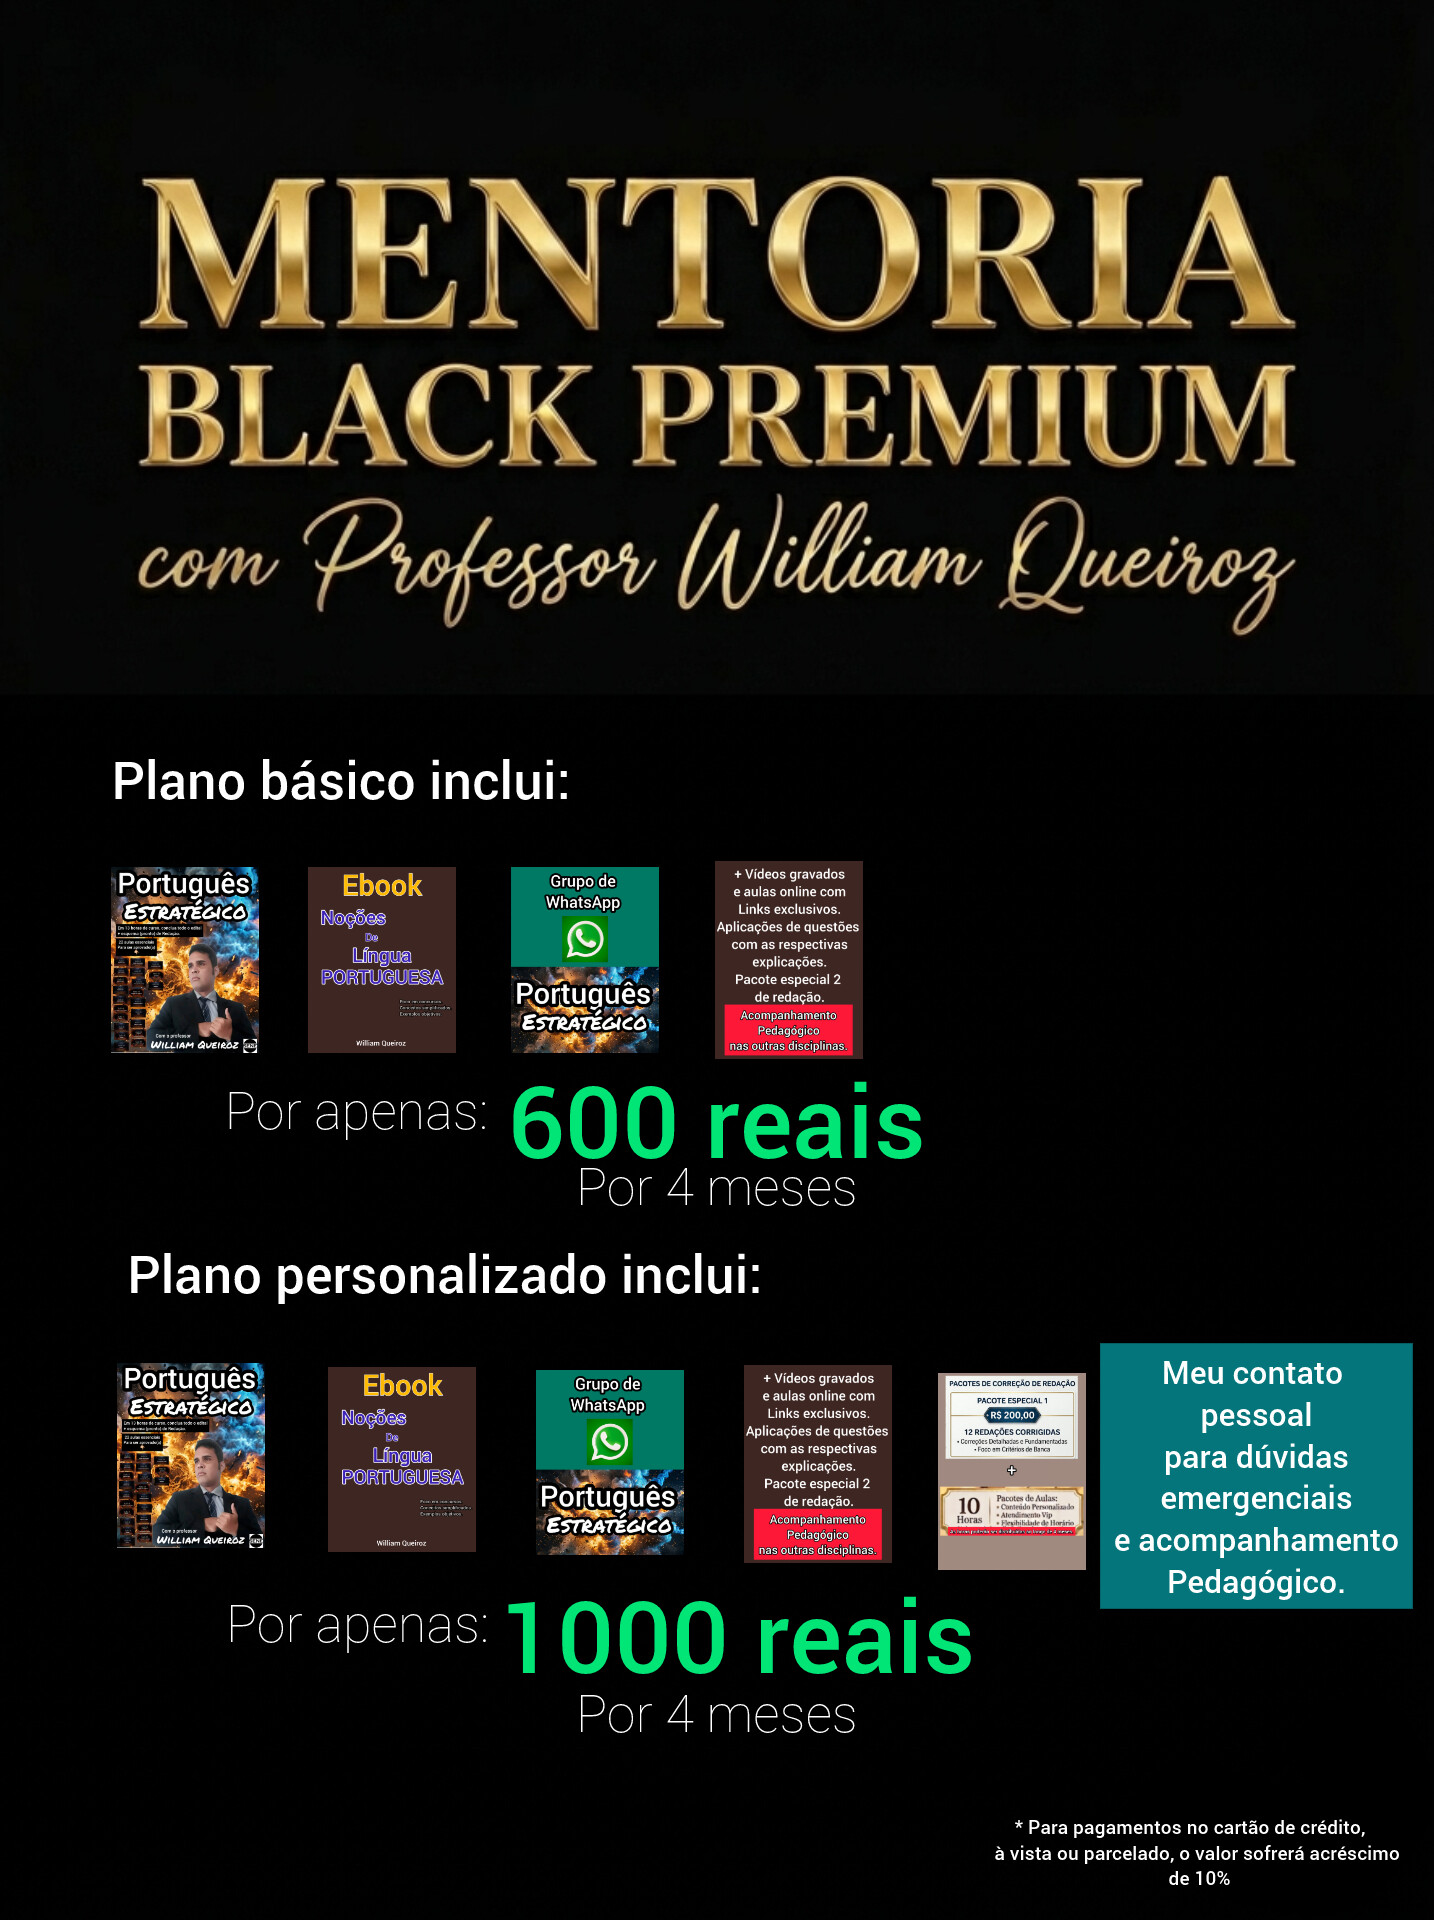
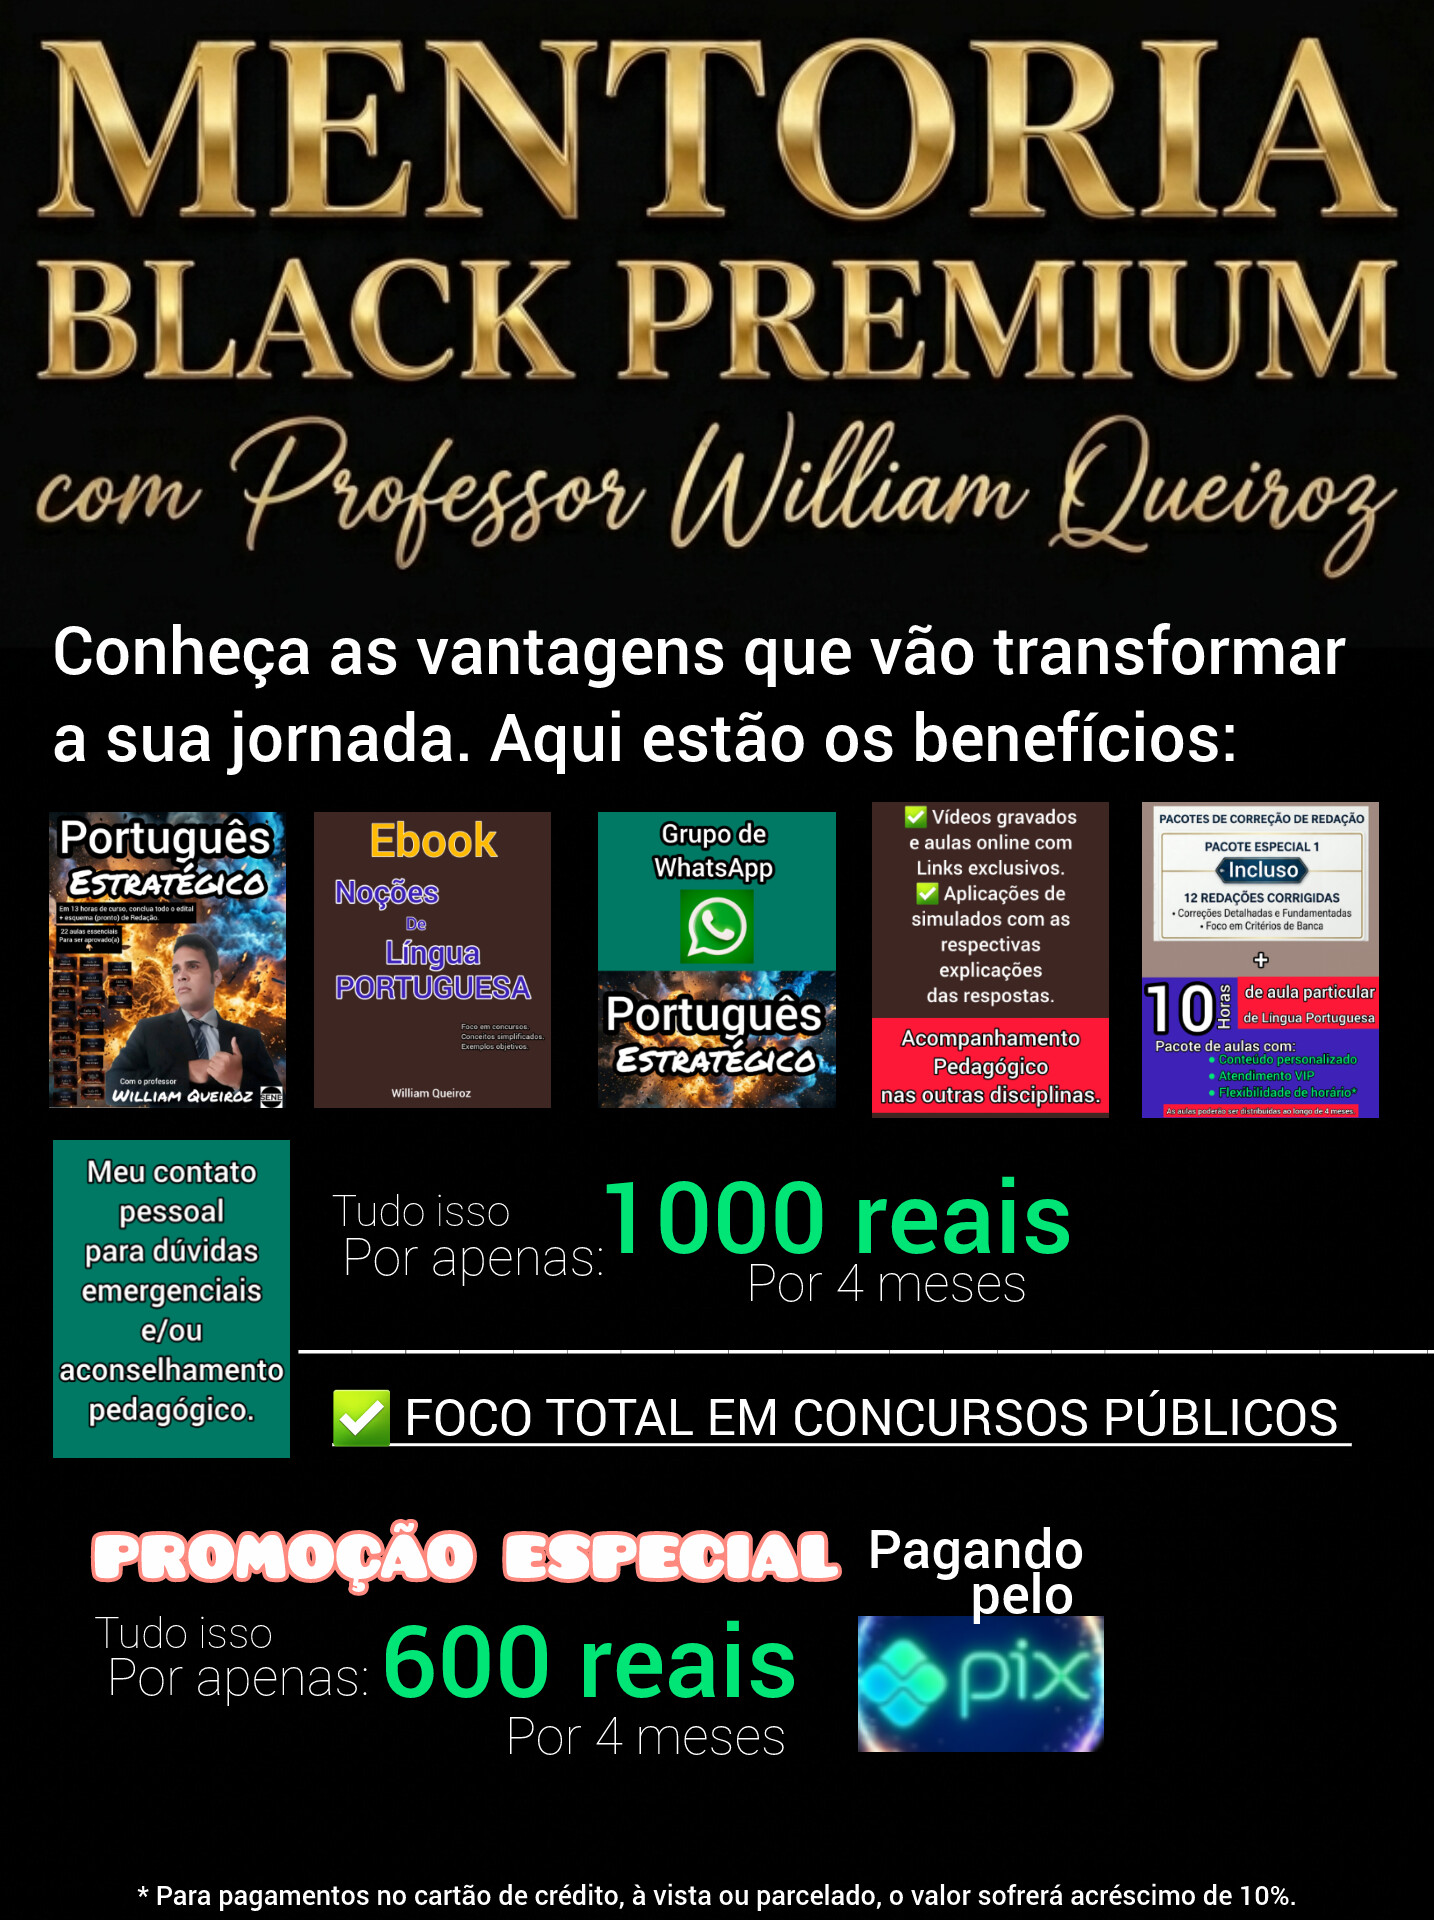
Add files via upload

diff --git a/index.html b/index.html
@@ -101,6 +101,11 @@
             margin-top: 2px;
         }
 
+        .menu-navegacao {
+            display: flex;
+            align-items: center;
+        }
+
         .menu-navegacao a {
             text-decoration: none;
             color: var(--texto-titulo);
@@ -112,6 +117,62 @@
 
         .menu-navegacao a:hover {
             color: var(--marca-ciano);
+        }
+
+        /* --- NOVA BARRA DE PESQUISA ESTILIZADA --- */
+        .container-busca-topo {
+            display: flex;
+            align-items: center;
+            position: relative;
+            margin-left: 8px;
+            border-left: 1px solid #E2E8F0;
+            padding-left: 16px;
+        }
+
+        .input-busca-topo {
+            width: 40px;
+            height: 36px;
+            background-color: var(--superficie-clara);
+            border: 1px solid #E2E8F0;
+            border-radius: 20px;
+            padding: 0 12px 0 35px;
+            font-size: 12px;
+            color: var(--texto-titulo);
+            outline: none;
+            cursor: pointer;
+            transition: width 0.3s ease, border-color 0.3s ease, background-color 0.3s ease;
+        }
+
+        .input-busca-topo:focus,
+        .input-busca-topo:not(:placeholder-shown) {
+            width: 180px;
+            cursor: text;
+            background-color: #ffffff;
+            border-color: var(--marca-ciano);
+        }
+
+        .icone-busca-topo {
+            position: absolute;
+            left: 28px;
+            color: var(--texto-suporte);
+            font-size: 13px;
+            pointer-events: none;
+            transition: color 0.3s ease;
+        }
+
+        .input-busca-topo:focus + .icone-busca-topo {
+            color: var(--marca-ciano-vibrante);
+        }
+
+        /* Efeito de piscar o card encontrado */
+        @keyframes destaqueCard {
+            0% { transform: scale(1); box-shadow: 0 10px 30px rgba(0,0,0,0.02); }
+            50% { transform: scale(1.03); border-color: var(--marca-ciano-vibrante); box-shadow: 0 0 20px rgba(0, 210, 206, 0.4); }
+            100% { transform: scale(1); box-shadow: 0 10px 30px rgba(0,0,0,0.02); }
+        }
+
+        .card-pesquisado-destaque {
+            animation: destaqueCard 1.5s ease-in-out 2;
         }
 
         .botoes-topo-container {
@@ -304,6 +365,7 @@
             color: var(--texto-titulo);
             font-weight: 400;
             flex: 1;
+            text-align: justify;
         }
 
         .btn-acao-vendas {
@@ -469,6 +531,7 @@
             align-items: center;
             border: 1px solid rgba(0,0,0,0.03);
             scroll-margin-top: 170px; 
+            transition: border-color 0.3s ease;
         }
 
         .capa-produto {
@@ -967,7 +1030,7 @@
 
         @media (max-width: 768px) {
             body {
-                padding-top: 240px;
+                padding-top: 260px;
             }
             .secao-principal { flex-direction: column-reverse; text-align: center; padding-top: 40px; }
             .lado-esquerdo { padding-right: 0; }
@@ -975,15 +1038,12 @@
             .molde-foto { width: 280px; height: 280px; margin-bottom: 30px; border-radius: 16px; }
             .card-multimidia, .box-oferta { width: 100%; }
             .alinhamento-topo { flex-direction: column; gap: 12px; text-align: center; }
-            .menu-navegacao { margin: 4px 0; }
+            .menu-navegacao { margin: 4px 0; justify-content: center; flex-wrap: wrap; gap: 8px; }
+            .container-busca-topo { border-left: none; padding-left: 0; margin-left: 0; margin-top: 5px; }
             .botoes-topo-container { width: 100%; max-width: 320px; }
             .chamada-topo { padding: 12px; }
             .container-botoes-captura { justify-content: center; }
-            
-            /* Ajuste responsivo para que os botões fiquem empilhados no celular */
-            .linha-botoes-duplos {
-                grid-template-columns: 1fr;
-            }
+            .linha-botoes-duplos { grid-template-columns: 1fr; }
         }
     </style>
 </head>
@@ -1001,6 +1061,11 @@
                 <a href="#metodologia">Metodologia</a>
                 <a href="#produtos">Produtos</a>
                 <a href="#card-socio">Seja Meu Sócio</a>
+                
+                <div class="container-busca-topo">
+                    <input type="text" id="campoBusca" class="input-busca-topo" placeholder="Buscar no site..." onkeydown="verificarTeclaBusca(event)">
+                    <i class="fa-solid fa-magnifying-glass icone-busca-topo"></i>
+                </div>
             </nav>
             
             <div class="botoes-topo-container">
@@ -1015,7 +1080,7 @@
             <div class="info-captura">
                 <h2>Baixe Grátis: E-book <span>Morfologia Estratégica</span></h2>
                 <p>Siga os dois passos abaixo de forma rápida para liberar o acesso ao seu material pedagógico imediatamente.</p>
-                <span class="detalhe-formulario">O formulário requer apenas o seu nome, e-mail e número de WhatsApp para receber nossas updates.</span>
+                <span class="detalhe-formulario">O formulário requer apenas o seu nome, e-mail e número de WhatsApp para receber nossas atualizações.</span>
                 
                 <div class="container-botoes-captura">
                     <button onclick="abrirModalForm()" class="btn-quadrado-captura btn-captura-form">
@@ -1167,7 +1232,8 @@
                     <img src="4.jpg" alt="Aula Particular" class="capa-produto">
                     <h3>Aula Particular</h3>
                     <div class="legenda-oferta">com professor William Queiroz</div>
-                    <div class="status-vagas">Vagas Limitadas</div>
+                    <div class="status-vagas">Vagas Abertas e Limitadas // Aproveite a
+                    PROMOÇÃO ESPECIAL = 30% de desconto, em qualquer plano, para pagamentos via PIX</div>
                     
                     <div class="container-tres-botoes">
                         <a href="https://wa.me/5588996380932" target="_blank" class="btn-acao-vendas btn-info-secundario">Maiores Informações</a>
@@ -1195,7 +1261,7 @@
                 <div class="box-oferta" id="card-mentoria">
                     <img src="10.jpg" alt="Mentoria Black Premium" class="capa-produto">
                     <h3>Mentoria Black Premium</h3>
-                    <div class="legenda-oferta">Com professor William Queiroz</div>
+                    <div class="legenda-oferta" style="font-size: 0.85rem;">Com Professor William Queiroz, você estudará de forma eficiente e com a melhor técnica de aprendizado que será desenvolvida baseada nas suas habilidades e tempo disponível para estudo. Na Mentoria Black Premium, você receberá todo o acompanhamento pedagógico necessário para criar o melhor plano de estudo para cada uma das matérias cobradas no edital e conquistar a sua tão almejada vaga. </div>
                     
                     <div class="container-tres-botoes">
                         <a href="https://wa.me/5588996380932" target="_blank" class="btn-acao-vendas btn-info-secundario">Maiores Informações</a>
@@ -1223,7 +1289,7 @@
                 <div class="box-oferta">
                     <img src="6.jpg" alt="Projeto Ação Jovem" class="capa-produto">
                     <h3>Projeto Ação Jovem</h3>
-                    <div class="legenda-oferta">Esse é um trabalho gratuito ofertado pelo professor William Queiroz através da Sene e com parcerias com instituições educacionais.</div>
+                    <div class="legenda-oferta" style="font-size: 0.85rem;">Esse é um trabalho gratuito ofertado pelo professor William Queiroz através da Sene e com parcerias com instituições educacionais.</div>
                     <a href="https://instagram.com/comigovoceaprende" target="_blank" class="btn-acao-vendas">Conhecer</a>
                 </div>
 
@@ -1370,15 +1436,62 @@
             const secaoPrincipal = document.getElementById('bloco-principal');
             
             if (barraTopo && secaoPrincipal) {
+                // Modificado para usar a seção "Chega de Estudos Aleatórios" como gatilho exato
                 const gatilhoSumir = secaoPrincipal.offsetTop;
                 
-                if (window.scrollY >= (gatilhoSumir - 130)) { 
+                // O cabeçalho some suavemente assim que a rolagem alcança o início dessa seção
+                if (window.scrollY >= (gatilhoSumir - 140)) { 
                     barraTopo.classList.add('escondida');
                 } else {
                     barraTopo.classList.remove('escondida');
                 }
             }
         });
+
+        /* --- SCRIPT DO SISTEMA DE BUSCA INTELIGENTE --- */
+        function verificarTeclaBusca(event) {
+            if (event.key === 'Enter') {
+                executarBuscaNoSite();
+            }
+        }
+
+        function executarBuscaNoSite() {
+            const termoBusca = document.getElementById('campoBusca').value.toLowerCase().trim();
+            if (termoBusca === "") return;
+
+            // Seleciona todos os cards de produtos ofertados
+            const cardsProdutos = document.querySelectorAll('.box-oferta');
+            let itemEncontrado = null;
+
+            // Varre os cards procurando correspondência no título ou no texto descritivo
+            for (let card of cardsProdutos) {
+                const titulo = card.querySelector('h3').innerText.toLowerCase();
+                const legenda = card.querySelector('.legenda-oferta') ? card.querySelector('.legenda-oferta').innerText.toLowerCase() : '';
+                
+                if (titulo.includes(termoBusca) || legenda.includes(termoBusca)) {
+                    itemEncontrado = card;
+                    break;
+                }
+            }
+
+            if (itemEncontrado) {
+                // Calcula a rolagem considerando o tamanho fixo da barra do cabeçalho
+                const topoCard = itemEncontrado.getBoundingClientRect().top + window.scrollY - 160;
+                
+                window.scrollTo({
+                    top: topoCard,
+                    behavior: 'smooth'
+                });
+
+                // Aplica uma animação de pulso visual para destacar o card pro usuário
+                itemEncontrado.classList.add('card-pesquisado-destaque');
+                setTimeout(() => {
+                    itemEncontrado.classList.remove('card-pesquisado-destaque');
+                }, 3000);
+            } else {
+                alert('Nenhum produto ou serviço específico foi encontrado para o termo pesquisado. Tente termos como "Aula Particular", "Redação" ou "Mentoria".');
+            }
+        }
     </script>
 
 </body>
